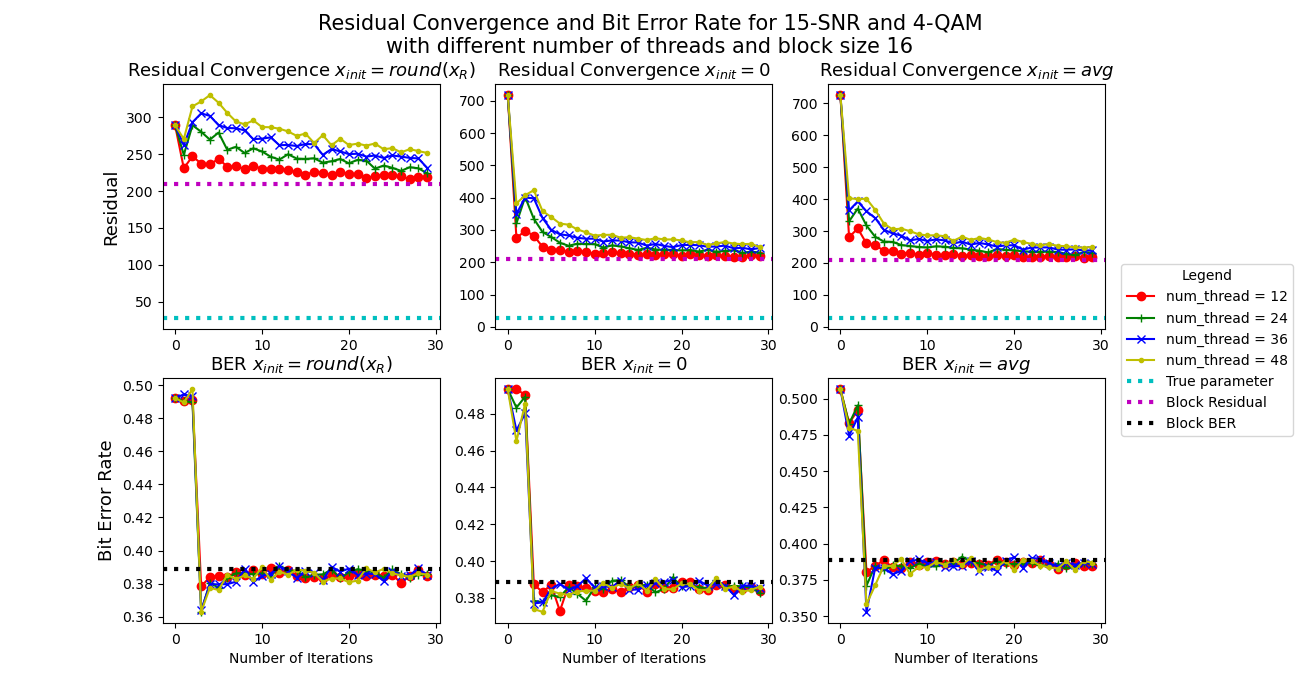
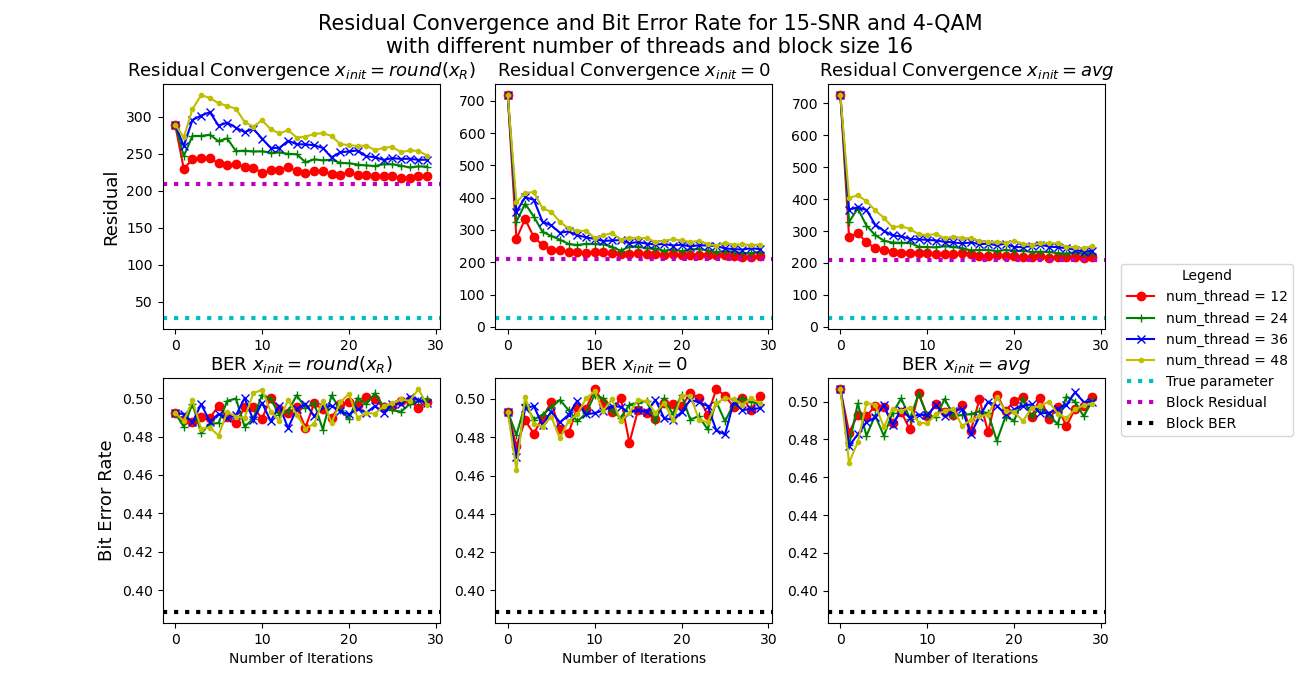
update cluster version; make backups

diff --git a/babai_asyn_c++/src/example/ils_block_search.cpp b/babai_asyn_c++/src/example/ils_block_search.cpp
@@ -307,7 +307,7 @@ void plot_res(index k, index SNR, index min_proc, index max_proc, bool is_qr) {
 
         auto reT = cils.cils_block_search_serial(&z_B, &d_s);
         auto res = cils::find_residual<scalar, index, n>(cils.R_A, cils.y_A, &reT.x);
-        auto brr = cils::find_bit_error_rate<scalar, index, n>(&reT.x, &cils.x_t, false);
+        auto brr = cils::find_bit_error_rate<scalar, index, n>(&reT.x, &cils.x_t, cils.qam == 1);
 
         printf("Method: ILS_SER, Block size: %d, Res: %.5f, Brr: %.5f, Run time: %.5fs\n", size, res, brr,
                reT.run_time);
@@ -317,7 +317,7 @@ void plot_res(index k, index SNR, index min_proc, index max_proc, bool is_qr) {
             n_proc = n_proc == 96 ? 64 : n_proc;
             cout << d_s[d_s.size() - 1] << "," << n_proc << ",";
             std::cout.flush();
-            for (index nswp = 0; nswp < 30; nswp++) {
+            for (index nswp = 0; nswp < 100; nswp++) {
                 for (index t = 0; t < 3; t++) {
                     z_B.assign(n, 0);
                     if (init == -1)

diff --git a/babai_asyn_cluster/src/example/ils_block_search.cpp b/babai_asyn_cluster/src/example/ils_block_search.cpp
@@ -307,7 +307,7 @@ void plot_res(index k, index SNR, index min_proc, index max_proc, bool is_qr) {
 
         auto reT = cils.cils_block_search_serial(&z_B, &d_s);
         auto res = cils::find_residual<scalar, index, n>(cils.R_A, cils.y_A, &reT.x);
-        auto brr = cils::find_bit_error_rate<scalar, index, n>(&reT.x, &cils.x_t, false);
+        auto brr = cils::find_bit_error_rate<scalar, index, n>(&reT.x, &cils.x_t, cils.qam == 1);
 
         printf("Method: ILS_SER, Block size: %d, Res: %.5f, Brr: %.5f, Run time: %.5fs\n", size, res, brr,
                reT.run_time);
@@ -317,7 +317,7 @@ void plot_res(index k, index SNR, index min_proc, index max_proc, bool is_qr) {
             n_proc = n_proc == 96 ? 64 : n_proc;
             cout << d_s[d_s.size() - 1] << "," << n_proc << ",";
             std::cout.flush();
-            for (index nswp = 0; nswp < 30; nswp++) {
+            for (index nswp = 0; nswp < 100; nswp++) {
                 for (index t = 0; t < 3; t++) {
                     z_B.assign(n, 0);
                     if (init == -1)

diff --git a/results/2020_12_11/plot_helper.py b/results/2020_12_11/plot_helper.py
@@ -17,7 +17,7 @@ def plot_residual(n, f, file):
         SNR = int(lines[k].split(":")[1].split("\n")[0])
         init_res = float(lines[k + 1].split(",")[0].split(":")[1].split("\n")[0])
 
-        k = k + 2
+        k = k + 4
         for init in range(-1, 2):
             line_str = lines[k].split(",")
             print(line_str)
@@ -241,9 +241,9 @@ def plot_res(n):
         file = open(str(n) + '_' + str(f) + '_res.out', 'r')
         plot_residual(n, f, file)
 
-        for stop in stops:
-            file = open(str(n) + '_' + str(f) + '_plot_' + str(stop) + '.out', 'r')
-            plot_runtime(n, f, stop, file)
+        # for stop in stops:
+        #     file = open(str(n) + '_' + str(f) + '_plot_' + str(stop) + '.out', 'r')
+        #     plot_runtime(n, f, stop, file)
 
 
 if __name__ == "__main__":
